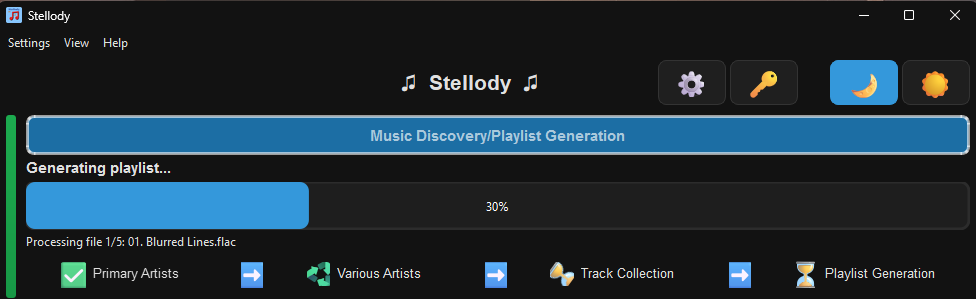
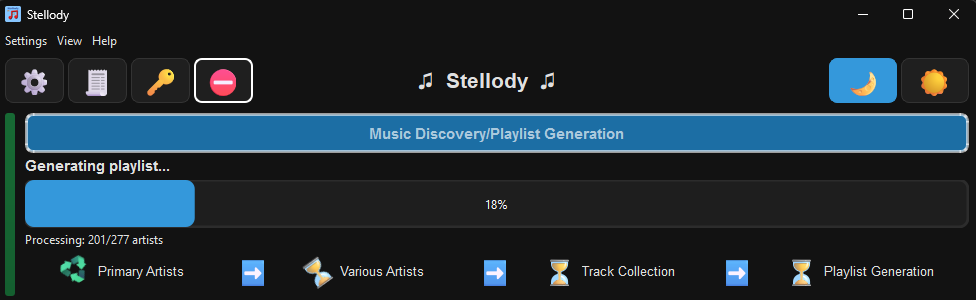
Add blog post 7.

diff --git a/templates/index.html b/templates/index.html
@@ -81,6 +81,8 @@
               {% set blurb = homepage_blurb_index.get(p.slug) %}
               {% if p.slug == 'blog1' %}
                 <span class="btn-thumb btn-thumb--emoji" aria-hidden="true">🔍</span>
+              {% elif p.slug == 'blog7' %}
+                <span class="btn-thumb btn-thumb--emoji" aria-hidden="true">🦾</span>
               {% elif p.slug == 'calendifier' %}
                 <span class="btn-thumb btn-thumb--emoji" aria-hidden="true">📅</span>
               {% elif p.slug == 'elevator' %}
@@ -123,14 +125,16 @@
               >
                 {{ p.emoji }}
               </span>
-            {% elif p.slug == 'blog1' %}
-              <span class="btn-thumb btn-thumb--emoji" aria-hidden="true">🔍</span>
-            {% elif p.slug == 'calendifier' %}
-              <span class="btn-thumb btn-thumb--emoji" aria-hidden="true">📅</span>
-            {% elif p.slug == 'elevator' %}
-              <span class="btn-thumb btn-thumb--emoji" aria-hidden="true">🛗</span>
-            {% elif p.slug == 'audiodeck' %}
-              <span class="btn-thumb btn-thumb--emoji" aria-hidden="true">🔊</span>
+              {% elif p.slug == 'blog1' %}
+                <span class="btn-thumb btn-thumb--emoji" aria-hidden="true">🔍</span>
+              {% elif p.slug == 'blog7' %}
+                <span class="btn-thumb btn-thumb--emoji" aria-hidden="true">🦾</span>
+              {% elif p.slug == 'calendifier' %}
+                <span class="btn-thumb btn-thumb--emoji" aria-hidden="true">📅</span>
+              {% elif p.slug == 'elevator' %}
+                <span class="btn-thumb btn-thumb--emoji" aria-hidden="true">🛗</span>
+              {% elif p.slug == 'audiodeck' %}
+                <span class="btn-thumb btn-thumb--emoji" aria-hidden="true">🔊</span>
             {% elif p.slug == 'galacticunicorn' %}
               <span class="btn-thumb btn-thumb--emoji" aria-hidden="true">🦄</span>
             {% elif p.slug == '3D-printer-launcher' %}
@@ -164,14 +168,16 @@
             {% set blurb = homepage_blurb_index.get(p.slug) %}
             {% if (p.emoji or '')|length > 0 %}
               <span class="btn-thumb btn-thumb--emoji" aria-hidden="true">{{ p.emoji }}</span>
-            {% elif p.slug == 'blog1' %}
-              <span class="btn-thumb btn-thumb--emoji" aria-hidden="true">🔍</span>
-            {% elif p.slug == 'calendifier' %}
-              <span class="btn-thumb btn-thumb--emoji" aria-hidden="true">📅</span>
-            {% elif p.slug == 'elevator' %}
-              <span class="btn-thumb btn-thumb--emoji" aria-hidden="true">🛗</span>
-            {% elif p.slug == 'audiodeck' %}
-              <span class="btn-thumb btn-thumb--emoji" aria-hidden="true">🔊</span>
+              {% elif p.slug == 'blog1' %}
+                <span class="btn-thumb btn-thumb--emoji" aria-hidden="true">🔍</span>
+              {% elif p.slug == 'blog7' %}
+                <span class="btn-thumb btn-thumb--emoji" aria-hidden="true">🦾</span>
+              {% elif p.slug == 'calendifier' %}
+                <span class="btn-thumb btn-thumb--emoji" aria-hidden="true">📅</span>
+              {% elif p.slug == 'elevator' %}
+                <span class="btn-thumb btn-thumb--emoji" aria-hidden="true">🛗</span>
+              {% elif p.slug == 'audiodeck' %}
+                <span class="btn-thumb btn-thumb--emoji" aria-hidden="true">🔊</span>
             {% elif p.slug == 'galacticunicorn' %}
               <span class="btn-thumb btn-thumb--emoji" aria-hidden="true">🦄</span>
             {% elif p.slug == '3D-printer-launcher' %}
@@ -206,6 +212,8 @@
             {% set cover = homepage_cover_index.get(p.slug) %}
             {% if cover %}
               <img class="btn-thumb" src="{{ cover }}" alt="{{ p.title }}" loading="lazy" />
+            {% elif p.slug == 'blog7' %}
+              <span class="btn-thumb btn-thumb--emoji" aria-hidden="true">🦾</span>
             {% elif (p.emoji or '')|length > 0 %}
               <span class="btn-thumb btn-thumb--emoji" aria-hidden="true">{{ p.emoji }}</span>
             {% else %}

diff --git a/templates/posts.html b/templates/posts.html
@@ -26,6 +26,8 @@
               <span class="btn-thumb btn-thumb--emoji" aria-hidden="true">🌗</span>
             {% elif post.slug == 'blog6' %}
               <span class="btn-thumb btn-thumb--emoji" aria-hidden="true">🧹</span>
+            {% elif post.slug == 'blog7' %}
+              <span class="btn-thumb btn-thumb--emoji" aria-hidden="true">🦾</span>
             {% elif post.slug == 'calendifier' %}
               <span class="btn-thumb btn-thumb--emoji" aria-hidden="true">📅</span>
             {% elif post.slug == 'elevator' %}

diff --git a/posts/blog7.md b/posts/blog7.md
@@ -1,0 +1,109 @@
+---
+title: "Refactors & Focus Fights for Stellody 4.1.3"
+date: "2026-01-25 18:30"
+tags: ["blog", "stellody", "deployment", "flatpak", "refactor", "qt", "release"]
+one_liner: "After a heroic refactor/full triple-platform release, Stellody 4.1.3 is live with improved UI, cleaner code and a lot less screaming."
+---
+
+[Stellody v4.1.3](https://www.stellody.com) ~ featuring a major refactor, licensing fixes and improved UI across all supported platforms.
+
+---
+
+## 🔄 Codebase Refactoring & Cleanliness
+
+| Change                                  | Outcome                                                               |
+|----------------------------------------|-----------------------------------------------------------------------|
+| Enforced ≤ 400 lines per Python file   | Improved maintainability and modularity                              |
+| Removed stray/unnecessary files        | Cleaner repo footprint                                               |
+| Updated Architecture docs              | Documentation now matches post-refactor structure                    |
+| Reorganised UI code                    | Easier to trace focus/tab logic without spelunking through chaos     |
+
+This was a large, sweeping cleanup ~ months of architectural debt finally reconciled.
+
+> I complied with SOLID, OO design patterns, linted my soul with Black, and followed TDD to the gates of hell; only to find my app broken and my hope fading.
+
+---
+
+## 🎛 UI and Interaction Improvements
+
+| Feature                                       | Result                                                               |
+|----------------------------------------------|----------------------------------------------------------------------|
+| Tab ordering and focus behaviour redesigned  | Reliable keyboard navigation across dialogs and menus               |
+| Tabbing respects light/dark toggle order      | Horizontal traversal fixed                                           |
+| Theme switching no longer breaks tab memory  | Focus correctly restored after theme changes                        |
+| “Show console output” toggle button added    | Quieter startup unless explicitly enabled                           |
+| “Stop active progress” toggle button added   | Avoids the need to shutdown the app to stop a run                   |
+| Improved font scaling                        | Better text legibility on Options dialog                            |
+
+> Qt made the button blink, as if to say 'I thought about helping you' and then walked away.
+
+> The Tab Order Vanishes When I Change My Theme.  Like Qt’s Internal State Is Being Purged by a Witch.
+
+---
+
+## 📦 Installer & Platform Build Updates
+
+| Platform | Change                                                                 |
+|----------|------------------------------------------------------------------------|
+| Windows  | Installer GUI updated; correct naming and version tagging             |
+| macOS    | DMG installer rebuilt with new launcher script and Nuitka output      |
+| Linux    | Flatpak manifest corrected to include license files (now accessible)  |
+
+All builds tested, validated and deployed cleanly.
+
+> “Qt finally stopped gaslighting me and started listening. It only took a dozen hacks, five hours, and me yelling at my monitor like a feral raccoon.”
+
+---
+
+## 📜 Licensing and Compliance
+
+| Update                              | Description                                                                 |
+|-------------------------------------|-----------------------------------------------------------------------------|
+| LGPL license files                  | Now included and accessible in Flatpak builds                               |
+| Removed committed binaries          | Cleaned up repository bloat from older build approach                        |
+| Versioning standardised             | Tags and installer names now follow a consistent, predictable pattern       |
+
+> I included the license file and Flatpak accepted it.  However, it buried the file in a place my app would never see again!
+
+---
+
+## 🧪 Testing, QA and Regression Coverage
+
+| Area                | Status                                             |
+|---------------------|----------------------------------------------------|
+| Unit Tests          | Coverage at ~60% (PySide6 limitations acknowledged) |
+| Manual UI Testing   | Completed across all platforms                      |
+| Debug logging       | Silenced post-launch after verification             |
+
+> I silenced the debug logs I'd created; not because I didn’t love them but because the chaos had passed… for now.
+
+---
+
+## 🧱 Git Commit Summary Since v4.0.0
+
+| Area                     | Summary                                                                 |
+|--------------------------|-------------------------------------------------------------------------|
+| Console Output Toggle    | UI option added to enable or disable console output during app usage.   |
+| Stop Run Toggle          | UI option added to stop an active run with confirmation dialog.         |
+| Visual Polish            | Adjustments to spinner rendering and font sizes for better readability. |
+| Tabbing & Focus Logic    | Tabbing order refined across the UI, especially for dialog buttons.     |
+| Codebase Refactor        | Major restructuring for maintainability; redundant files removed.       |
+| Architecture Docs        | Updated to reflect the current structure and design philosophy.         |
+| Build Cleanup            | Removed unnecessary binaries from the repository.                       |
+| Licensing Compliance     | License files now included and accessible in Flatpak deployments.       |
+| Versioning Consistency   | All installer outputs and tags now follow a standardised format.        |
+
+---
+
+## Summary
+
+- Major refactor complete  
+- UI is stable and focus/tab-aware  
+- Builds deploy cleanly on Windows, macOS and Linux  
+- Licensing is packaged and compliant  
+- Live at [stellody.com](https://www.stellody.com)  
+
+Stellody v4.1.3 marks the most stable and maintainable release to date.  
+Everything hurts a little less now.
+
+🛠 Onwards ~ but this time with working tab order.

diff --git a/posts/edcolonisationasst.md b/posts/edcolonisationasst.md
@@ -25,7 +25,7 @@ thumb_image: /static/images/edcolonisationasst-icon.png
 
 **Solution:** A browser-based cockpit tool that tracks infrastructure requirements, build-out progress, system / station 'shopping lists' and real-time carrier inventory.
 
-**Impact:** Enables commanders to efficiently manage space station construction, resource logistics, and fleet carrier assets ~ streamlining both solo and group colonisation efforts.
+**Impact:** Enables commanders to efficiently manage space station construction, resource logistics and fleet carrier assets ~ streamlining both solo and group colonisation efforts.
 
 ---
 

diff --git a/posts/numismatism.md b/posts/numismatism.md
@@ -22,7 +22,7 @@ social_image: /static/images/numismatism.png
 
 A couple of friends in the US were manually identifying 1¢ coins under microscopes. This tool streamlines that: a desktop application that recognises years and mint marks on US cents using ML + CV.  
 
-> **Note:** Data availability remains poor, so model accuracy is limited. It's a personal prototype, a fossil of fast coding, and I'm okay with that.
+> **Note:** Data availability remains poor, so model accuracy is limited. It's a personal prototype, a fossil of fast coding and I'm okay with that.
 
 ---
 
